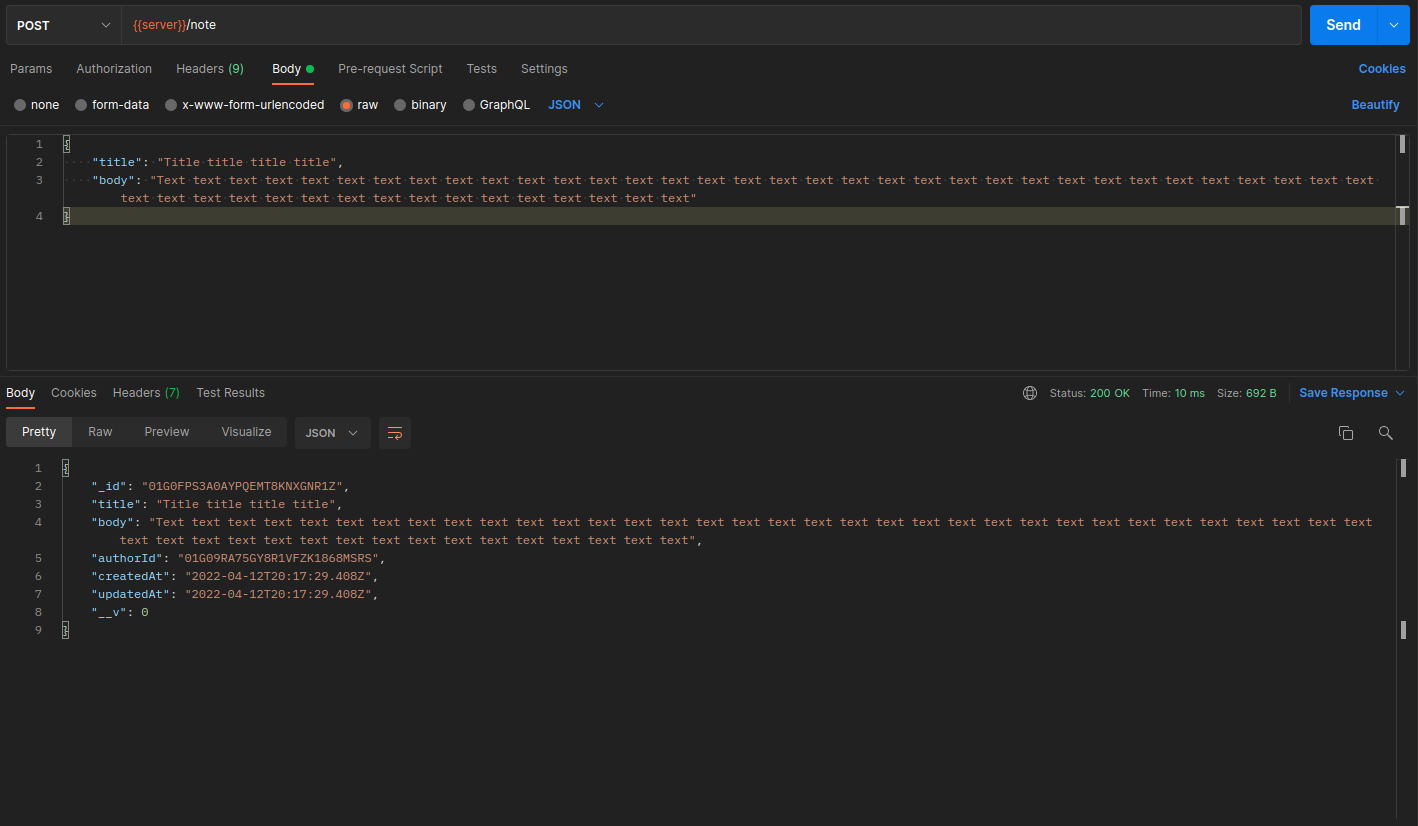
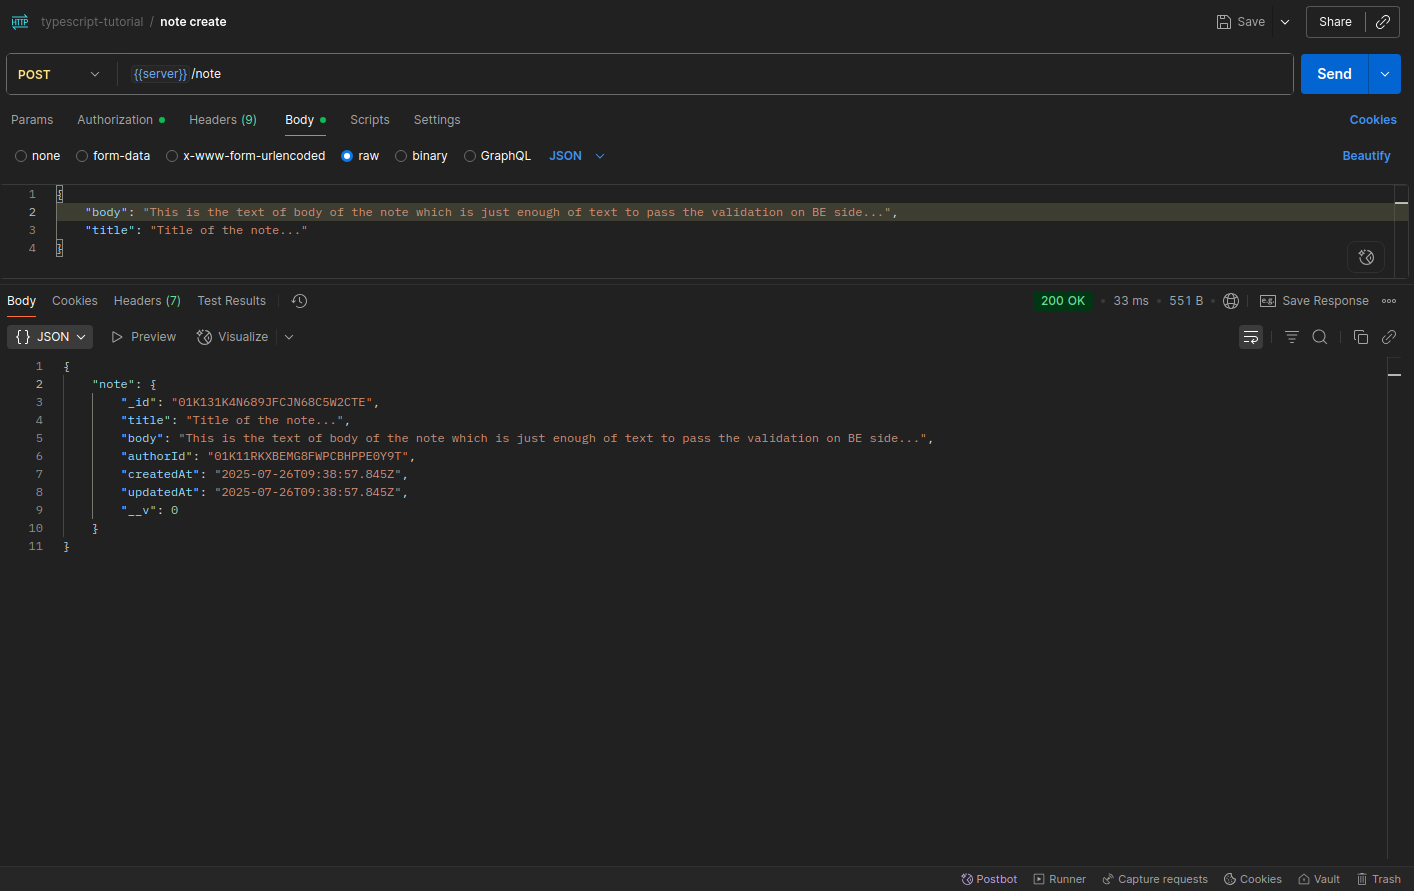
tutorial 4 complete

diff --git a/tutorial-4/src/server.ts b/tutorial-4/src/server.ts
@@ -11,6 +11,8 @@ import { comparePassword, passwordHash } from './lib/crypto.lib';
 import { ulid } from 'ulid';
 import { generateAuthToken } from './lib/auth.lib';
 import { authMiddleware } from './middlewares/auth.middleware';
+import { NoteCreate, NoteCreateAPI, NoteModel } from './models/note/note.db';
+import { validate } from 'class-validator';
 
 const app = express();
 
@@ -110,6 +112,32 @@ app.get('/protected-route', authMiddleware, (req: Request, res: Response, next: 
   const tokenData = req.body.tokenData;
   console.log('tokenData', tokenData);
   res.send('this is a protected route');
+});
+
+app.post('/note', authMiddleware, async (req: Request, res: Response, next: NextFunction) => {
+  // data from the token that is verified
+  const noteNew = new NoteCreateAPI();
+  noteNew.title = req.body.title;
+  noteNew.body = req.body.body;
+
+  // verify input parameters
+  const errors = await validate(noteNew);
+  if (errors.length) {
+    throw new ErrorException(ErrorCode.ValidationError, errors);
+  }
+
+  // create note data
+  const tokenData: { _id: string; email: string } = req.body.tokenData;
+  const noteCreate: NoteCreate = {
+    _id: ulid(),
+    title: noteNew.title,
+    body: noteNew.body,
+
+    authorId: tokenData._id,
+  };
+
+  const created = await NoteModel.create(noteCreate);
+  res.send({ note: created });
 });
 
 app.use(errorHandler); // registration of handler

diff --git a/tutorial-4/src/models/note/note.db.ts b/tutorial-4/src/models/note/note.db.ts
@@ -1,0 +1,44 @@
+import { IsString, MaxLength, MinLength } from 'class-validator';
+import { model, Model, Schema } from 'mongoose';
+
+export class Note {
+  _id: string;
+
+  title: string;
+  body: string;
+
+  authorId: string;
+
+  createdAt: string;
+  updatedAt: string;
+}
+
+const NoteSchema = new Schema<Note>(
+  {
+    _id: { type: String, required: true },
+
+    title: { type: String, required: true },
+    body: { type: String, required: true },
+
+    authorId: { type: String, required: true },
+  },
+  { collection: 'note', timestamps: true }
+);
+
+// Model for creating item in database.
+export type NoteCreate = Pick<Note, '_id' | 'title' | 'body' | 'authorId'>;
+
+// Validation model which comes to the API.
+export class NoteCreateAPI implements Pick<Note, 'title' | 'body'> {
+  @IsString()
+  @MinLength(10)
+  @MaxLength(500)
+  title: string;
+
+  @IsString()
+  @MinLength(100)
+  @MaxLength(5_000)
+  body: string;
+}
+
+export const NoteModel: Model<Note> = model('note', NoteSchema);

diff --git a/tutorial-4/src/error-handler/error-code.ts b/tutorial-4/src/error-handler/error-code.ts
@@ -4,5 +4,6 @@ export class ErrorCode {
   public static readonly MaximumAllowedGrade = 'MaximumAllowedGrade';
   public static readonly AsyncError = 'AsyncError';
   public static readonly DuplicateEntityError = 'DuplicateEntityError';
+  public static readonly ValidationError = 'ValidationError';
   public static readonly UnknownError = 'UnknownError';
 }

diff --git a/tutorial-4/src/error-handler/error-exception.ts b/tutorial-4/src/error-handler/error-exception.ts
@@ -19,6 +19,9 @@ export class ErrorException extends Error {
       case ErrorCode.AsyncError:
         this.status = 400;
         break;
+      case ErrorCode.ValidationError:
+        this.status = 422;
+        break;
       case ErrorCode.NotFound:
         this.status = 404;
         break;

diff --git a/tutorial-4.md b/tutorial-4.md
@@ -12,7 +12,7 @@ I personally think it is better to use a class based validator with the TypeScri
 
 ## Modeling
 
-We will create a simple model for creating notes.
+We will create a simple model for creating notes. Let's create it inside `src/models/note` as `note.db.ts`. In this file we will keep models for DB and for validation as well.
 ```typescript
 export class Note {
   _id: string;
@@ -27,8 +27,7 @@ export class Note {
 }
 ```
 
-
-Code for mongoose.
+Code for mongoose (inside same file).
 ```typescript
 import { model, Model, Schema } from 'mongoose';
 import { Note } from './note.model';
@@ -56,23 +55,24 @@ npm install --save class-validator
 ```json
 {
   "compilerOptions": {
-    "experimentalDecorators": true, // <- add this
-    "target": "es5",
+    "target": "es2016",
     "module": "commonjs",
+    "esModuleInterop": true,
+    "skipLibCheck": true,
     "outDir": "./dist",
-    "rootDir": "./",
+    "rootDir": "./src",
     "baseUrl": "./",
-    "paths": {},
-    "esModuleInterop": true
+    "experimentalDecorators": true // <- new option
   }
 }
-
 ```
 
 Now we can create models for validation and if we look at the code below, we will see that we have a couple of models.
 - `Note` is a basic model which is used for mongoose for creating its schema.
 - `NoteCreate` model is a model which is used to create data for MongoDB.
 - `NoteCreateAPI` is a validation model which is the data that we expect to come to the API.
+
+We will add the models inside the same file `note.db.ts` we previously created.
 
 ```typescript
 import { IsString, MaxLength, MinLength } from 'class-validator';
@@ -116,7 +116,7 @@ I have added only some basic decorators but there is a great flexibility on how 
 
 We will now create a POST API method and send data to that route.
 
-NOTE: The route is protected with authMiddleware we created in one of the previous tutorials.
+NOTE: The route is protected with authMiddleware we created in one of the previous tutorials. Align all the imports in `server.ts` file.
 
 ```typescript
 app.post('/note', authMiddleware, async (req: Request, res: Response, next: NextFunction) => {
@@ -128,7 +128,7 @@ app.post('/note', authMiddleware, async (req: Request, res: Response, next: Next
   // verify input parameters
   const errors = await validate(noteNew);
   if (errors.length) {
-    next(new ErrorException(ErrorCode.ValidationError, errors));
+    throw new ErrorException(ErrorCode.ValidationError, errors); // <- new ErrorCode enum
   }
 
   // create note data
@@ -142,8 +142,31 @@ app.post('/note', authMiddleware, async (req: Request, res: Response, next: Next
   };
 
   const created = await NoteModel.create(noteCreate);
-  res.send(created);
+  res.send({ note: created });
 });
+```
+NOTE: In `error-code.ts` add additional enum in switch case for status code.
+```typescript
+    switch (code) {
+      case ErrorCode.Unauthenticated:
+        this.status = 401;
+        break;
+      case ErrorCode.MaximumAllowedGrade:
+        this.status = 400;
+        break;
+      case ErrorCode.AsyncError:
+        this.status = 400;
+        break;
+      case ErrorCode.ValidationError: // <- new
+        this.status = 422;
+        break;
+      case ErrorCode.NotFound:
+        this.status = 404;
+        break;
+      default:
+        this.status = 500;
+        break;
+    }
 ```
 
 Now that everything is prepared, we can check what happens when we send data which is not valid and when we send data which is valid.
